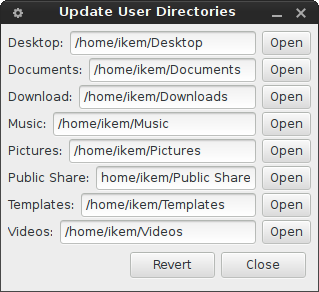
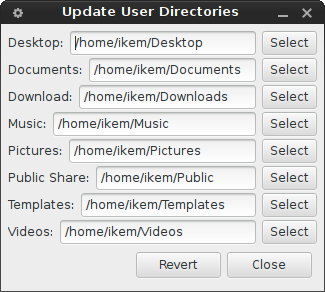
Changed button labels from open to select

diff --git a/gtk-user-dirs-update.py b/gtk-user-dirs-update.py
@@ -14,36 +14,44 @@ class GtkUserDir(object):
 		self.window.show()
 
 		self.entry_desktop = builder.get_object("entry_desktop")
+		self.entry_desktop.connect("activate", self.select_entry_xdg_dir, self.entry_desktop, "DESKTOP")
 		self.button_desktop = builder.get_object("button_desktop")
-		self.button_desktop.connect("clicked", self.select_xdg_dir, self.entry_desktop, "DESKTOP")
+		self.button_desktop.connect("clicked", self.select_button_xdg_dir, self.entry_desktop, "DESKTOP")
 
 		self.entry_documents = builder.get_object("entry_documents")
+		self.entry_documents.connect("activate", self.select_entry_xdg_dir, self.entry_documents, "DOCUMENTS")
 		self.button_documents = builder.get_object("button_documents")
-		self.button_documents.connect("clicked", self.select_xdg_dir, self.entry_documents, "DOCUMENTS")
+		self.button_documents.connect("clicked", self.select_button_xdg_dir, self.entry_documents, "DOCUMENTS")
 
 		self.entry_download = builder.get_object("entry_download")
+		self.entry_download.connect("activate", self.select_entry_xdg_dir, self.entry_download, "DOWNLOAD")
 		self.button_download = builder.get_object("button_download")
-		self.button_download.connect("clicked", self.select_xdg_dir, self.entry_download, "DOWNLOAD")
+		self.button_download.connect("clicked", self.select_button_xdg_dir, self.entry_download, "DOWNLOAD")
 
 		self.entry_music = builder.get_object("entry_music")
+		self.entry_music.connect("activate", self.select_entry_xdg_dir, self.entry_music, "MUSIC")
 		self.button_music = builder.get_object("button_music")
-		self.button_music.connect("clicked", self.select_xdg_dir, self.entry_music, "MUSIC")
+		self.button_music.connect("clicked", self.select_button_xdg_dir, self.entry_music, "MUSIC")
 
 		self.entry_pictures = builder.get_object("entry_pictures")
+		self.entry_pictures.connect("activate", self.select_entry_xdg_dir, self.entry_pictures, "PICTURES")
 		self.button_pictures = builder.get_object("button_pictures")
-		self.button_pictures.connect("clicked", self.select_xdg_dir, self.entry_pictures, "PICTURES")
+		self.button_pictures.connect("clicked", self.select_button_xdg_dir, self.entry_pictures, "PICTURES")
 
 		self.entry_publicshare = builder.get_object("entry_publicshare")
+		self.entry_publicshare.connect("activate", self.select_entry_xdg_dir, self.entry_publicshare, "PUBLICSHARE")
 		self.button_publicshare = builder.get_object("button_publicshare")
-		self.button_publicshare.connect("clicked", self.select_xdg_dir, self.entry_publicshare, "PUBLICSHARE")
+		self.button_publicshare.connect("clicked", self.select_button_xdg_dir, self.entry_publicshare, "PUBLICSHARE")
 
 		self.entry_templates = builder.get_object("entry_templates")
+		self.entry_templates.connect("activate", self.select_entry_xdg_dir, self.entry_templates, "TEMPLATES")
 		self.button_templates = builder.get_object("button_templates")
-		self.button_templates.connect("clicked", self.select_xdg_dir, self.entry_templates, "TEMPLATES")
+		self.button_templates.connect("clicked", self.select_button_xdg_dir, self.entry_templates, "TEMPLATES")
 
 		self.entry_videos = builder.get_object("entry_videos")
+		self.entry_videos.connect("activate", self.select_entry_xdg_dir, self.entry_videos, "VIDEOS")
 		self.button_videos = builder.get_object("button_videos")
-		self.button_videos.connect("clicked", self.select_xdg_dir, self.entry_videos, "VIDEOS")
+		self.button_videos.connect("clicked", self.select_button_xdg_dir, self.entry_videos, "VIDEOS")
 
 		self.button_reset = builder.get_object("button_reset")
 		self.button_reset.connect("clicked", self.reset_xdg_dirs)
@@ -66,8 +74,17 @@ class GtkUserDir(object):
 	def find_xdg_dir(self, name):
 		return subprocess.check_output(['xdg-user-dir', name]).rstrip('\n')
 
-	def select_xdg_dir(self, widget, entry, name):
-		dialog = Gtk.FileChooserDialog("Please choose a folder", None, 
+	def set_xdg_dir(self, name, path):
+		# there need to be a check here..
+		subprocess.Popen(['xdg-user-dirs-update', '--set', name, path])
+
+	def select_entry_xdg_dir(self, widget, entry, name):
+		path = entry.get_text()
+
+		self.set_xdg_dir(name, path)
+
+	def select_button_xdg_dir(self, widget, entry, name):
+		dialog = Gtk.FileChooserDialog("Select a directory", None, 
 										Gtk.FileChooserAction.SELECT_FOLDER, 
 										(Gtk.STOCK_CANCEL, Gtk.ResponseType.CANCEL, 
 										Gtk.STOCK_OPEN, Gtk.ResponseType.OK))
@@ -77,7 +94,7 @@ class GtkUserDir(object):
 		if response == Gtk.ResponseType.OK:
 			path = dialog.get_filename()
 
-			subprocess.Popen(['xdg-user-dirs-update', '--set', name, path])
+			self.set_xdg_dir(name, path)
 
 			# update_entry
 			entry.set_text(self.find_xdg_dir(name))
